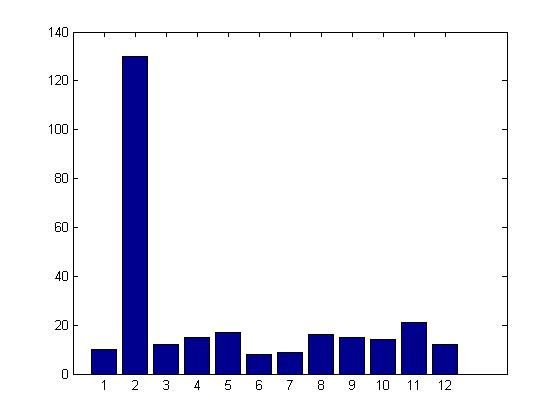
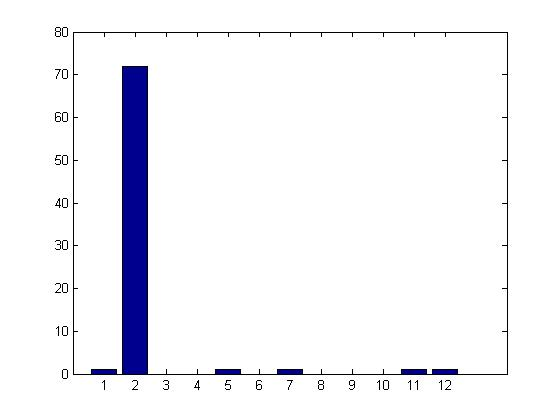
Finished most of part 2 except F

diff --git a/lab01/lab01_material/part2/sift/ransac.m b/lab01/lab01_material/part2/sift/ransac.m
@@ -1,0 +1,83 @@
+function H = ransac(dataset, p_suc, p_in)
+%RANSAC This function takes a number of points required (n), a set of
+%image feature points, the probability of success, and the probability of a
+%sample being an inlier as input. It determines the best fit for the data and
+%which points are outliers. The function outputs the data set without the 
+%outliers.
+
+% Determine S (number of trials needed to select best H matrix) and set a
+% threshold value for the reprojection error.
+
+k = 4;
+S = log(1-p_suc)/log(1-p_in^k);
+
+% Define constants for function
+threshold = 5;
+num_points = size(dataset,2);
+
+% Initialize search
+count_max = 0;
+
+P = dataset(:,1:2)';
+Q = dataset(:,3:4)';
+
+H = ones(3);
+for s = 1:ceil(S)
+    % Draw a sample of n points from the data randomly.
+
+    indices = zeros(1,k);
+    for v = 1:k
+        indices(1,v) = randi([1, num_points]);
+    end
+    X1 = P(1,indices);
+    Y1 = P(2,indices);
+    X2 = Q(1,indices);
+    Y2 = Q(2,indices);
+    
+    % Determine the H matrix from the random sample of points.
+    
+    points = [X2(1); Y2(1); X2(2); Y2(2); X2(3); Y2(3); X2(4); Y2(4)];
+
+    M = zeros(2*k);
+    m = 1;
+    for i = 1:2:2*k
+        M([i i+1],:) = [X1(m), Y1(m), 1, 0, 0, 0, -X2(m)*X1(m), -X2(m)*Y1(m);...
+                        0, 0, 0, X1(m), Y1(m), 1, -Y2(m)*X1(m), -Y2(m)*Y1(m)];
+        m = m + 1;
+    end
+    H_vector = M\points;
+    
+    % Calculate the reprojection error between a pair of corresponding feature
+    % points (P,Q).
+    error = zeros(num_points,1);
+    for e = 1:length(dataset)
+        HP = [(H_vector(1,1)*P(1,e)+H_vector(2,1)*P(2,e)+H_vector(3,1))/(H_vector(7,1)*P(1,e)+H_vector(8,1)*P(2,e)+1); (H_vector(4,1)*P(1,e)+H_vector(5,1)*P(2,e)+H_vector(6,1))/(H_vector(7,1)*P(1,e)+H_vector(8,1)*P(2,e)+1)];
+        error(e) = (sum((Q(:,e) - HP).^2,1)).^0.5;
+    end
+    
+    % Get number of elements with error below the threshold
+    count = length(error(error < threshold));
+    
+    if count > count_max
+        H = reshape([H_vector, ;0], 3, 3);
+        count_max = count;
+        %error_list = error;
+    end
+end
+
+% Once the H matrix with the least error is found, use it to find the
+% inliers and outliers by comparing the error between each match of feature
+% points with the threshold.
+
+% inliers = zeros(0,4);
+% outliers = zeros(0,4);
+% 
+% for j = 1:num_points
+%     if error_list(j) < threshold
+%         inliers = cat(1,inliers,dataset(j,:));
+%     else
+%         outliers = cat(1,outliers,dataset(j,:));
+%     end
+% end
+
+

diff --git a/lab01/lab01_material/part2/sift/ME132_Lab1.m b/lab01/lab01_material/part2/sift/ME132_Lab1.m
@@ -74,8 +74,66 @@ disp(strcat('Time for figure B ', num2str(t)));
 
 %% Figure C
 tic;
-for i = 3:num_sens
-    object_detector(sift_data_sens{i}, sift_data_obj);
+freq_list = cell(num_sens,1);
+feature_list = cell(num_sens,1);
+for i = 1:num_sens
+    [freq_list{i} feature_list{i}] = object_detector(sift_data_sens{i}, sift_data_obj);
 end
 t = toc;
 disp(strcat('Time for figure C ', num2str(t)));
+
+%% Figure D, E, F
+for i = 1:num_sens
+    % Determine which objects are "detected."
+    detected_threshold = 60;
+    num_obj = 1:length(freq_list{i});
+    num_obj = num_obj(freq_list{i} > detected_threshold);
+    for j = num_obj
+        % Figure D
+        obj_feature = feature_list{i}(:, feature_list{i}(1,:) == j);
+        figure;
+        colors = hsv(length(obj_feature));
+        subplot(1,2,2);
+        imshow(sensor_list{i}.rgb);
+        hold on
+        for k = 1:size(obj_feature,2)
+            plot(obj_feature(2,k),obj_feature(3,k),'o','MarkerEdgeColor',colors(k,:))
+        end
+        subplot(1,2,1);
+        imshow(obj_list{j});
+        hold on
+        for k = 1:size(obj_feature,2)
+            plot(obj_feature(4,k),obj_feature(5,k),'o','MarkerEdgeColor',colors(k,:))
+        end
+        hold off
+        % Figure E
+        feature_match_list = correspondence_plot(sift_data_sens{i}, sift_data_obj{j},...
+                                                 sensor_list{i}.rgb, obj_list{j});
+       % Figure F
+       H = ransac(feature_match_list, 0.999, 0.5)
+        objX = sift_data_obj{j}{2};
+        objY = sift_data_obj{j}{1};
+        sensX = zeros(length(objX),1);
+        sensY = zeros(length(objX),1);
+        for k = 1:length(objX)
+            reproj = (H + eye(3))^-1 * [objX(k,1); objY(k,1); 1];
+            sensX(k) = reproj(1,1);
+            sensY(k) = reproj(2,1);
+        end
+        figure;
+        colors = hsv(length(objX));
+        subplot(1,2,2);
+        imshow(sensor_list{i}.rgb);
+        hold on
+        for k = 1:length(objX)
+            plot(sensX(k), sensY(k),'o','MarkerEdgeColor',colors(k,:))
+        end
+        subplot(1,2,1);
+        imshow(obj_list{j});
+        hold on
+        for k = 1:length(objX)
+            plot(objX(k), objY(k),'o','MarkerEdgeColor',colors(k,:))
+        end
+        hold off
+    end
+end

diff --git a/lab01/lab01_material/part2/sift/object_detector.m b/lab01/lab01_material/part2/sift/object_detector.m
@@ -1,4 +1,4 @@
-function [freq, idx] = object_detector(sift_data_image, sift_obj_list)
+function [freq, feature_list] = object_detector(sift_data_image, sift_obj_list)
 %OBJECT_DETECTOR This function matches each feature in the image from the
 %sensor data and matches it with features in the object database. It takes
 %the sensor image and the images in the object database as input and
@@ -23,32 +23,40 @@ for i = 1:num_obj
     descriptors_obj{i} = sift_obj_list{i}{5};
 end
 
+feature_list = [];
 % Iterate over each object
-for i = 1:num_obj
-    for j = 1:length(descriptors_s)
+for j = 1:length(descriptors_s)
+    ssd_all = [];
+    for i = 1:num_obj
         % For each feature, calculate the SSD between the SIFT descriptor vectors
         % of the sensor image and each of the reference images.
         ssd = zeros(1, length(descriptors_obj{i}));
         for k = 1:length(descriptors_obj{i})
            ssd(k) = sum((descriptors_s(j,:) - descriptors_obj{i}(k,:)).^2);
         end
+        ssd_all = [ssd_all, ssd];
+    end
+    
+    % Set the ratio threshold and minimums.
+    sorted_ssd = sort(ssd_all);
+    min_ssd = sorted_ssd(1);
+    min2_ssd = sorted_ssd(2);
+    ratio = min_ssd / min2_ssd;
 
-        % Set the ratio threshold and minimums.
-        sorted_ssd = sort(ssd);
-        min_ssd = sorted_ssd(1);
-        min2_ssd = sorted_ssd(2);
-        ratio = min_ssd / min2_ssd;
-        
-        % Update histogram data
-        if (ratio < threshold)
-            freq(i) = freq(i) + 1;
+    % Update histogram data and figure out which object image belongs to
+    if (ratio < threshold)
+        idx = find(ssd_all == min_ssd);
+        i = 1;
+        while (idx > length(descriptors_obj{i}))
+            idx = idx - length(descriptors_obj{i});
+            i = i + 1;
         end
+        freq(i) = freq(i) + 1;
+        feature_list = [feature_list [i; sift_data_image{2}(j); sift_data_image{1}(j); ...
+                        sift_obj_list{i}{2}(idx); sift_obj_list{i}{1}(idx)]];
     end
 end
 
 % Display histogram
 figure;
 bar(freq)
-
-% Return idx of object image with most matches
-[~, idx] = max(freq);

diff --git a/lab01/lab01_material/part2/sift/correspondence_plot.m b/lab01/lab01_material/part2/sift/correspondence_plot.m
@@ -1,0 +1,58 @@
+function [feature_match_array] = correspondence_plot(sift_data_image, sift_obj,  data_image, obj)
+% CORRESPONDENCE_PLOT This function shows the corresponding features in the
+% sensor image and the reference image. It takes an array containing the
+% number of matches each image in the database has with the sensor image.
+
+% Define constants for function
+ratio_threshold = 0.5;
+feature_match_array = zeros(0,4);
+
+% For each feature in the sensor image, look through each of the features
+% in the detected object and find the corresponding feature.
+
+% Extract descriptor data for convenience
+descriptors_s = sift_data_image{5};
+descriptors_obj = sift_obj{5};
+
+% Iterate over each object
+for j = 1:length(descriptors_s)
+    % For each feature in the sensor image, calculate the SSD between
+    % the SIFT descriptor vectors of the features in the sensor image
+    % and the detected reference image(s).
+    ssd = zeros(1, length(descriptors_obj));
+    for k = 1:length(descriptors_obj)
+        ssd(k) = sum((descriptors_s(j,:) - descriptors_obj(k,:)).^2);
+    end
+
+    % Set the minimums.
+    sorted_ssd = sort(ssd);
+    min_ssd = sorted_ssd(1);
+    min2_ssd = sorted_ssd(2);
+    ratio = min_ssd / min2_ssd;
+    index = find(ssd == min_ssd);
+
+    % Update feature_matching_array
+    if ratio < ratio_threshold
+        feature_match_array = cat(1, feature_match_array, ...
+            [sift_data_image{1}(j), sift_data_image{2}(j), ...
+             sift_obj{1}(index) sift_obj{2}(index)]);
+    end
+end
+
+% Plot the corresponding features with the same color.
+% Note: plotting assumes only 1 object image was matched to
+figure;
+colors = hsv(size(feature_match_array,1));
+subplot(1,2,2);
+imshow(data_image);
+hold on
+for i = 1:size(feature_match_array,1)
+    plot(feature_match_array(i,2), feature_match_array(i,1),'o','MarkerEdgeColor',colors(i,:))
+end
+subplot(1,2,1);
+imshow(obj);
+hold on
+for i = 1:size(feature_match_array,1)
+    plot(feature_match_array(i,4), feature_match_array(i,3),'o','MarkerEdgeColor',colors(i,:))
+end
+hold off
